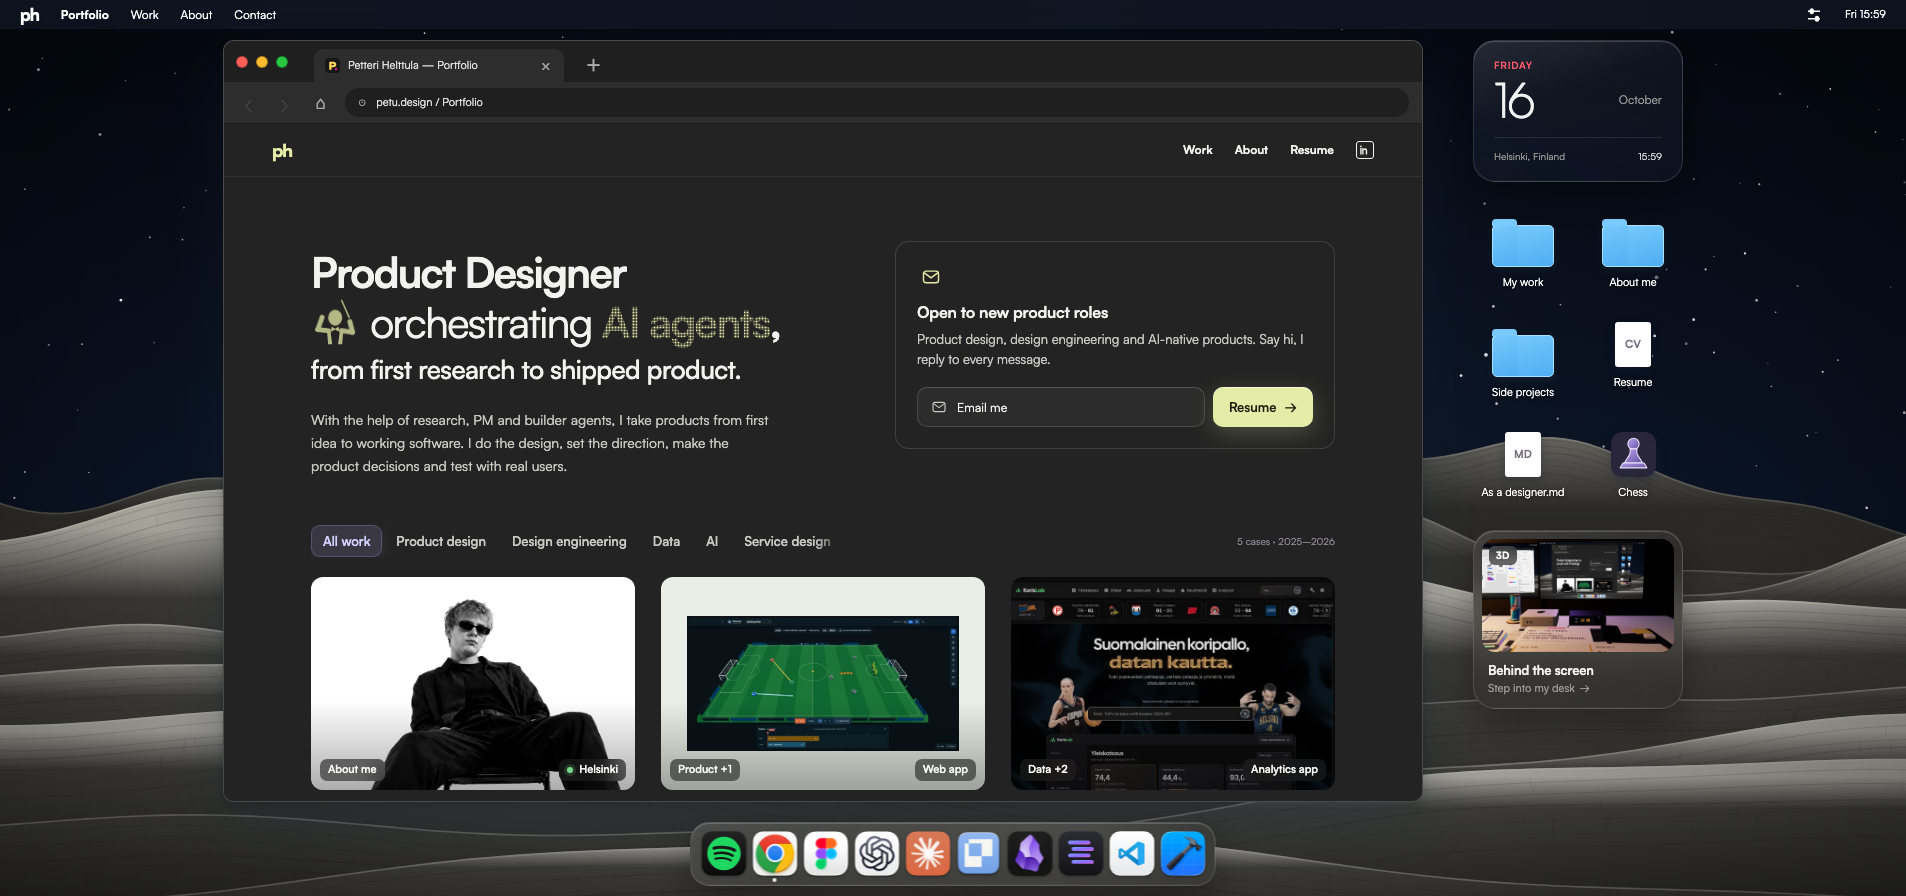
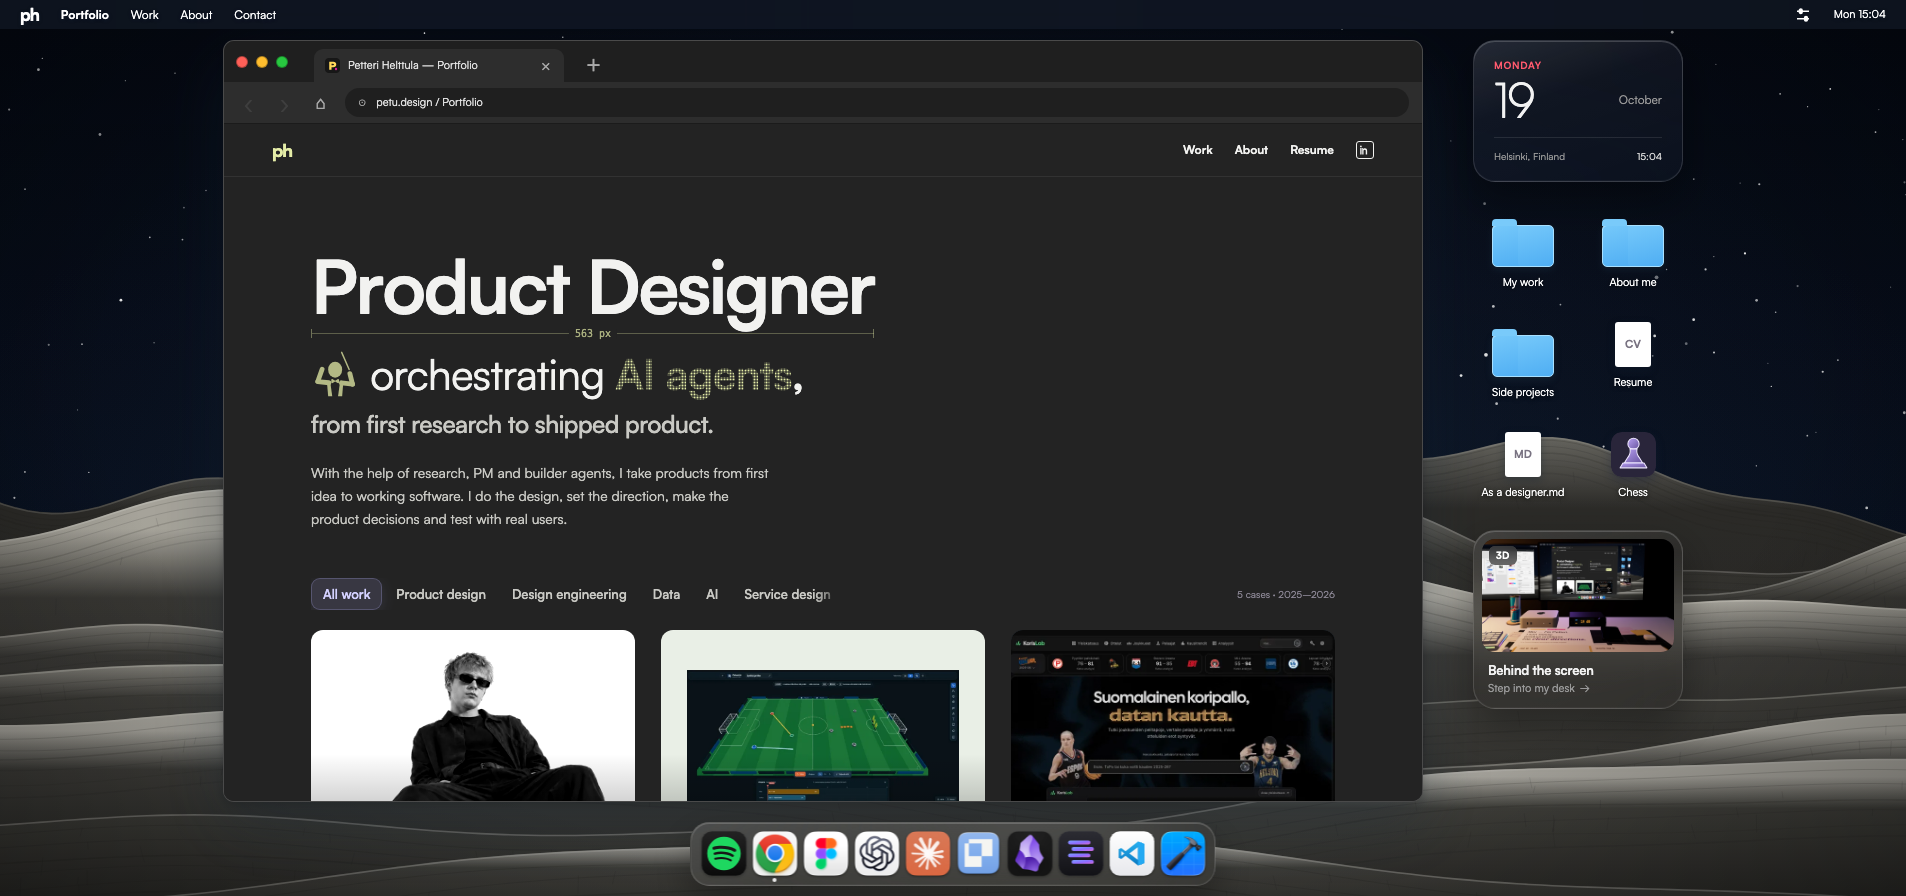
Refresh room monitor, desk widget and link preview for the new hero
Recaptured from the current homepage so the room's main screen, the
"Behind the screen" preview and the social preview show the new hero.
The capture script now forces reduced motion so the hero renders in its
final state instead of mid-animation.

diff --git a/index.html b/index.html
@@ -17,7 +17,7 @@
 </nav>
 <div class="browser-page" id="browser-page" tabindex="0"></div>
 </article>
-<aside class="desktop-side" aria-label="Desktop widgets"><section class="date-widget"><span id="widget-weekday"></span><strong id="widget-day"></strong><span id="widget-month"></span><div>Helsinki, Finland<time id="widget-clock"></time></div></section><nav class="desktop-shortcuts" id="desktop-shortcuts" aria-label="Desktop files"></nav><button class="room-button workspace-enter room-widget" type="button" aria-controls="workspace-view" aria-expanded="false" aria-label="See what's behind the screen: open my desk in 3D"><span class="room-widget-preview" aria-hidden="true"><img src="assets/room-widget-preview.jpg?v=4" alt="" width="560" height="330" decoding="async"><span class="room-widget-chip">3D</span></span><span class="room-widget-copy" aria-hidden="true"><strong>Behind the screen</strong><small>Step into my desk <span class="room-widget-arrow">→</span></small></span></button></aside>
+<aside class="desktop-side" aria-label="Desktop widgets"><section class="date-widget"><span id="widget-weekday"></span><strong id="widget-day"></strong><span id="widget-month"></span><div>Helsinki, Finland<time id="widget-clock"></time></div></section><nav class="desktop-shortcuts" id="desktop-shortcuts" aria-label="Desktop files"></nav><button class="room-button workspace-enter room-widget" type="button" aria-controls="workspace-view" aria-expanded="false" aria-label="See what's behind the screen: open my desk in 3D"><span class="room-widget-preview" aria-hidden="true"><img src="assets/room-widget-preview.jpg?v=5" alt="" width="560" height="330" decoding="async"><span class="room-widget-chip">3D</span></span><span class="room-widget-copy" aria-hidden="true"><strong>Behind the screen</strong><small>Step into my desk <span class="room-widget-arrow">→</span></small></span></button></aside>
 </div>
 <section class="sound-mixer" hidden id="sound-mixer" aria-labelledby="mixer-title">
               <header><h2 id="mixer-title">Sound mixer</h2><button type="button" id="sound-enable" aria-pressed="false">Enable sound</button></header>
@@ -616,4 +616,4 @@
   <img data-preview-image alt="">
   <p data-preview-caption hidden></p>
 </dialog>
-<script src="case-video.js?v=2"></script><script src="case-comparison.js?v=1"></script><script src="desktop.js?v=44"></script><script src="workspace-view.js?v=109"></script></body></html>
+<script src="case-video.js?v=2"></script><script src="case-comparison.js?v=1"></script><script src="desktop.js?v=44"></script><script src="workspace-view.js?v=110"></script></body></html>

diff --git a/workspace-view.js b/workspace-view.js
@@ -1244,7 +1244,7 @@ const createDesktopScreenTexture = (THREE) => {
     texture.needsUpdate = true;
   };
   desktopImage.onload = draw;
-  desktopImage.src = 'assets/room-desktop-screen.png?v=15';
+  desktopImage.src = 'assets/room-desktop-screen.png?v=16';
   window.setInterval(draw, 30_000);
   const dockTargets = [
     { x: 701.5 / 1906, y: 831 / 896, width: 44 / 1906, height: 44 / 896 },
